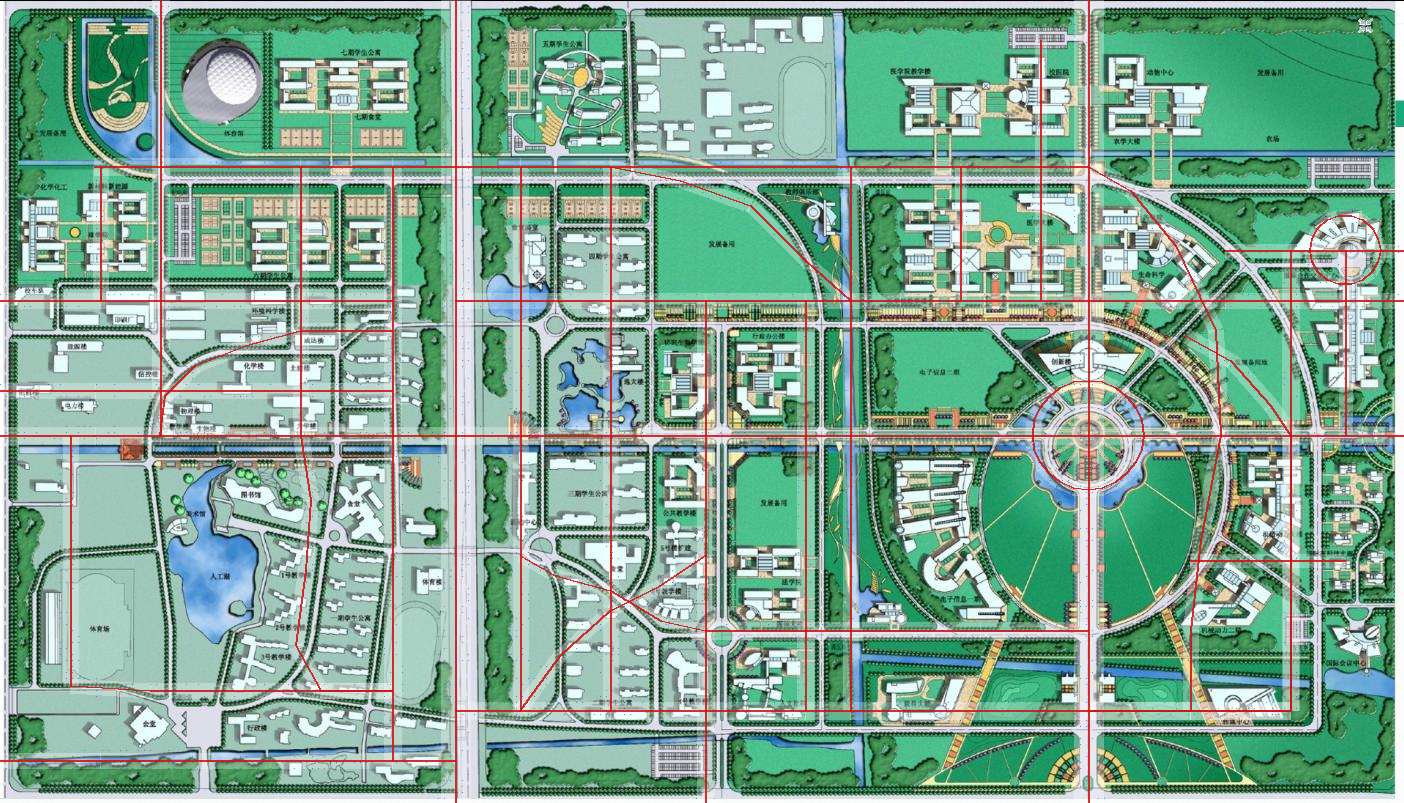
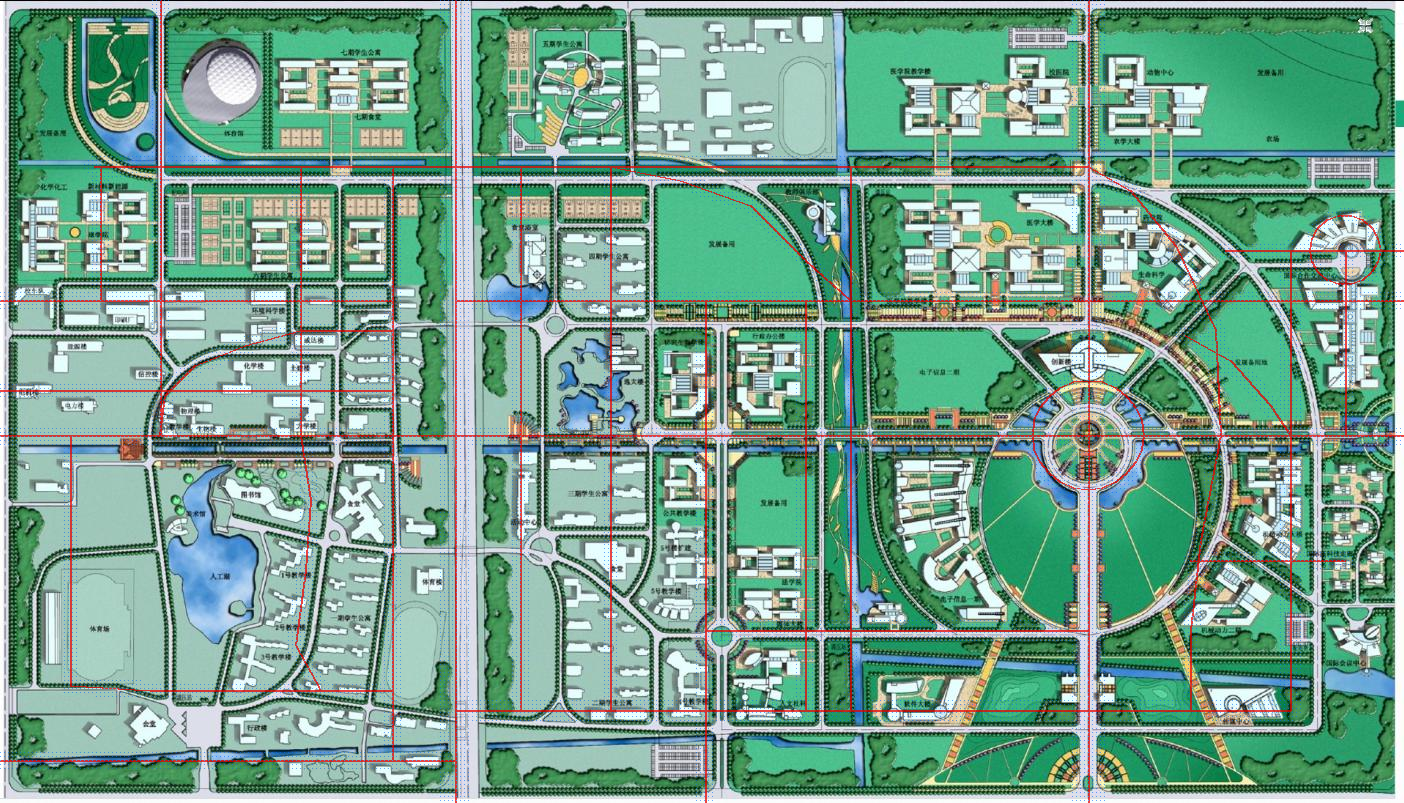
Refine road annotations with 4px grid

Changed region(s): [[0.0, 0.0, 1.0, 0.9963]]

diff --git a/validate_navigation_core.m b/validate_navigation_core.m
@@ -14,8 +14,8 @@ must(channels == 3, 'map must be an RGB image');
 network = validationBuildRoadNetwork(mapWidthPx, mapHeightPx, scaleM);
 must(size(network.segments, 1) > 60, 'road network should contain modeled road segments');
 must(size(network.nodes, 1) > 40, 'road network should contain network nodes');
-must(network.grid.stepPx == 6, 'road grid step should be 6 pixels for high precision');
-must(size(network.grid.nodes, 1) > 8000, 'road grid should contain dense navigable nodes');
+must(network.grid.stepPx == 4, 'road grid step should be 4 pixels for high precision');
+must(size(network.grid.nodes, 1) > 18000, 'road grid should contain dense navigable nodes');
 
 roadPoint = validationPxToMeters(1088, 435, mapHeightPx, scaleM);
 [validRoad, snappedRoad, roadSegIdx, roadDist] = validationNearestRoad(network, roadPoint);
@@ -54,7 +54,7 @@ end
 
 function network = validationBuildRoadNetwork(mapWidthPx, mapHeightPx, scaleM)
 segPx = RoadModelDataPx();
-gridStepPx = 6;
+gridStepPx = 4;
 
 segments = zeros(size(segPx));
 for i = 1:size(segPx, 1)
@@ -352,61 +352,6 @@ while ~isempty(openNodes)
         fScore(v) = tentative + validationDistance(network.grid.nodes(v, :), network.grid.nodes(endNode, :));
         openNodes(end + 1) = v;
         openScores(end + 1) = fScore(v);
-    end
-end
-end
-
-function adj = validationConnectProjection(adj, network, nodeIdx, pt, segmentIdx)
-s = network.segments(segmentIdx, :);
-n1 = validationFindNodeIndex(network.nodes, s(1:2));
-n2 = validationFindNodeIndex(network.nodes, s(3:4));
-d1 = validationDistance(pt, s(1:2));
-d2 = validationDistance(pt, s(3:4));
-adj(nodeIdx, n1) = min(adj(nodeIdx, n1), d1);
-adj(n1, nodeIdx) = min(adj(n1, nodeIdx), d1);
-adj(nodeIdx, n2) = min(adj(nodeIdx, n2), d2);
-adj(n2, nodeIdx) = min(adj(n2, nodeIdx), d2);
-end
-
-function idx = validationFindNodeIndex(nodes, pt)
-idx = 1;
-best = inf;
-for i = 1:size(nodes, 1)
-    d = validationDistance(nodes(i, :), pt);
-    if d < best
-        best = d;
-        idx = i;
-    end
-end
-end
-
-function [dist, prev] = validationDijkstra(adj, startNode)
-n = size(adj, 1);
-dist = inf(1, n);
-prev = zeros(1, n);
-visited = false(1, n);
-dist(startNode) = 0;
-for step = 1:n
-    best = inf;
-    u = 0;
-    for i = 1:n
-        if ~visited(i) && dist(i) < best
-            best = dist(i);
-            u = i;
-        end
-    end
-    if u == 0
-        break;
-    end
-    visited(u) = true;
-    for v = 1:n
-        if ~visited(v) && ~isinf(adj(u, v))
-            alt = dist(u) + adj(u, v);
-            if alt < dist(v)
-                dist(v) = alt;
-                prev(v) = u;
-            end
-        end
     end
 end
 end

diff --git a/RoadModelDataPx.m b/RoadModelDataPx.m
@@ -24,9 +24,7 @@ segPx = appendRoadPolyline(segPx, [805 805 805 805], [300 435 630 710], 16); % m
 segPx = appendRoadPolyline(segPx, [850 850 850 850 850], [166 300 435 630 710], 14); % river_west_road_850
 segPx = appendRoadPolyline(segPx, [455 520 610 705 805 850 900 980 1088], [300 300 300 300 300 300 300 300 300], 14); % middle_north_cross
 segPx = appendRoadPolyline(segPx, [705 805 850 980 1088], [630 630 630 630 630], 16); % middle_south_cross
-segPx = appendRoadPolyline(segPx, [520 555 610 660 705], [555 575 590 620 630], 12); % middle_lake_connector
 segPx = appendRoadPolyline(segPx, [610 680 750 805 850], [166 180 205 260 300], 12); % middle_north_curve
-segPx = appendRoadPolyline(segPx, [520 560 610 660 705], [710 655 610 585 555], 12); % middle_southwest_curve
 segPx = appendRoadPolyline(segPx, [1143 1141.1 1135.6 1126.9 1115.5 1102.2 1088 1073.8 1060.5 1049.1 1040.4 1034.9 1033 1034.9 1040.4 1049.1 1060.5 1073.8 1088 1102.2 1115.5 1126.9 1135.6 1141.1 1143], [435 449.2 462.5 473.9 482.6 488.1 490 488.1 482.6 473.9 462.5 449.2 435 420.8 407.5 396.1 387.4 381.9 380 381.9 387.4 396.1 407.5 420.8 435], 14); % central_roundabout
 segPx = appendRoadPolyline(segPx, [1088 1130 1175 1215 1220 1200 1190 1190], [166 190 245 330 435 540 630 710], 14); % east_outer_curve
 segPx = appendRoadPolyline(segPx, [1290 1290 1290 1290 1290], [250 300 435 560 710], 16); % east_inner_vertical
@@ -37,8 +35,6 @@ segPx = appendRoadPolyline(segPx, [1190 1240 1290 1345], [560 560 560 560], 12);
 segPx = appendRoadPolyline(segPx, [1088 1190 1290], [710 710 710], 16); % east_horizontal_710
 segPx = appendRoadPolyline(segPx, [1345 1345 1345 1345], [250 300 360 435], 12); % east_small_vertical
 segPx = appendRoadPolyline(segPx, [1380 1377.9 1371.8 1362.5 1351.1 1338.9 1327.5 1318.2 1312.1 1310 1312.1 1318.2 1327.5 1338.9 1351.1 1362.5 1371.8 1377.9 1380], [250 262 272.5 280.3 284.5 284.5 280.3 272.5 262 250 238 227.5 219.7 215.5 215.5 219.7 227.5 238 250], 10); % east_small_roundabout
-segPx = appendRoadPolyline(segPx, [960 960 960], [166 220 300], 10); % top_central_vertical_960
-segPx = appendRoadPolyline(segPx, [1040 1040 1040 1040 1040], [40 100 166 240 300], 10); % top_central_vertical_1040
 end
 
 function segPx = appendRoadPolyline(segPx, xs, ys, widthPx)

diff --git a/RunIntelligentNavigationUI.m b/RunIntelligentNavigationUI.m
@@ -979,7 +979,7 @@ end
 
 function network = buildRoadNetwork(mapWidthPx, mapHeightPx, scaleM)
 segPx = RoadModelDataPx();
-gridStepPx = 6;
+gridStepPx = 4;
 
 segments = zeros(size(segPx));
 for i = 1:size(segPx, 1)

diff --git a/docs/DEVELOPMENT_LOG.md b/docs/DEVELOPMENT_LOG.md
@@ -19,7 +19,7 @@
 - Built `RunIntelligentNavigationUI.m` as the programmatic MATLAB UI.
 - Modeled campus roads as manually traced road corridors with explicit segment widths.
 - Implemented IV loading, road validity checking, orientation, removal, reports, distance, trajectory length, map rotation, road skeleton, local circular view, automatic road alignment, IV-up view, virtual street view, and path planning.
-- Replaced sparse centerline path planning with a dense 6 px navigable road grid and custom A* search instead of MATLAB `graph` or `shortestpath`.
+- Replaced sparse centerline path planning with a dense 4 px navigable road grid and custom A* search instead of MATLAB `graph` or `shortestpath`.
 - Avoided App Designer, `uifigure`, advanced image-processing built-ins, and advanced graph built-ins.
 
 ### Group Information
@@ -84,15 +84,22 @@ Current UI smoke behavior:
 - Reviewed `practice/Practice03`, `practice/Practice04`, and `practice/Practice05` as references. Practice05 supports the current programmatic `figure`/`axes`/`uicontrol` implementation style; Practice03/04 support the coordinate geometry and simplified camera/street-view reasoning.
 - Removed the previous sparse grid-like road model because it visibly crossed buildings, green areas, and water.
 - Added `RoadModelDataPx.m` as a single shared road-corridor data source in map pixel coordinates.
-- Switched path planning from sparse centerline Dijkstra to a 6 px road-grid A* search.
+- Switched path planning from the sparse centerline path model to a 4 px road-grid A* search.
 - Updated `Road Model` visualization to show both traced road centerlines and sampled navigable grid nodes.
 - Regenerated `docs/report/assets/RoadModelOverlay.png` with the corrected road corridor/grid overlay.
 - Re-ran Octave validation: `validate_navigation_core` and `validate_ui_smoke` both returned `exit=0`.
 
+### 2026-06-14 Road Annotation Review
+
+- Rechecked the road overlay against the campus map and removed four suspect internal/courtyard shortcut polylines from `RoadModelDataPx.m`.
+- Reduced the navigable road-grid step to 4 px for higher route fidelity where curves and intersections are close together.
+- Regenerated `RoadModelOverlay.png`, `grid_path_example.png`, the technical report DOCX/PDF, and the MATLAB scripts zip.
+- Re-ran validation after the revision: 201 road segments, 18472 grid nodes, `CORE_VALIDATION_OK`, and `UI_SMOKE_OK`.
+
 ### Optimization and Risk Notes
 
 - Road detection is manually modeled as road corridors rather than automatically extracted from image color. This keeps the implementation within the course's minimum-built-in-functions rule.
-- The 6 px road grid improves path fidelity, but the model still depends on the quality of manual road tracing. If a specific road segment is judged off, update `RoadModelDataPx.m`.
+- The 4 px road grid improves path fidelity, but the model still depends on the quality of manual road tracing. If a specific road segment is judged off, update `RoadModelDataPx.m`.
 - Virtual street view is a simplified generated scene rather than photorealistic rendering, because the project map has no real street-view imagery.
 - UI runtime should be finally checked in MATLAB when available, because Octave graphics behavior is not identical to MATLAB.
 

diff --git a/docs/PROJECT_AUDIT_CN.md b/docs/PROJECT_AUDIT_CN.md
@@ -28,15 +28,15 @@
 | OR2 Scale and local visualization | 已补齐 | `IV scale` 控制 IV 显示比例；`Local r(m)` 严格按半径显示局部圆形地图 |
 | OR3 Auto aligned orientation | 已补齐 | `Auto align road` 根据最近道路段方向设置 IV；`IV Up` 旋转地图使 IV 朝上 |
 | OR4 Virtual street view | 已补齐 | `Street View` 对道路点生成简化街景窗口，显示道路点坐标和朝向 |
-| OR5 Path planning | 已补齐 | 两个任意地图点先吸附到最近道路点，再用 6 px 可通行道路网格和自写 A* 规划最短路 |
+| OR5 Path planning | 已补齐 | 两个任意地图点先吸附到最近道路点，再用 4 px 可通行道路网格和自写 A* 规划最短路 |
 
 ## 已完成的薄弱项修正
 
 1. OR1 原先只显示骨架线和道路带叠加，现在改为 `Skeleton Road` 模式下对地图做骨架道路带遮罩，骨架带外区域空白化，更接近“只显示附着于骨架的道路部分”。
 2. OR2 局部视图加入等比例显示和半径边界锁定，避免坐标轴自动缩放破坏指定半径。
 3. OR5 路径规划按要求接受任意地图点，不再要求起终点本身位于道路上。
-4. 道路规划已从旧版稀疏中心线/Dijkstra 改为 `RoadModelDataPx.m` 手工道路走廊 + 6 px 高精度可通行网格 + 自写 A*，减少弯路和交叉口附近的路径偏离。
-5. 增加 `validate_navigation_core.m`，覆盖地图尺寸、坐标换算、道路合法性、6 px 网格、吸附、路径规划和局部遮罩。
+4. 道路规划已从旧版稀疏中心线方案改为 `RoadModelDataPx.m` 手工道路走廊 + 4 px 高精度可通行网格 + 自写 A*，减少弯路和交叉口附近的路径偏离。
+5. 增加 `validate_navigation_core.m`，覆盖地图尺寸、坐标换算、道路合法性、4 px 网格、吸附、路径规划和局部遮罩。
 6. 增加 `validate_ui_smoke.m`，用于快速检查 UI 创建阶段是否抛出异常。
 
 ## 已知限制

diff --git a/README.md b/README.md
@@ -19,7 +19,7 @@ Official course reference: [Stony Brook University ISE333 / CSE333 User Interfac
 - `RunIntelligentNavigationUI.m`: programmatic UI implementation and callbacks.
 - `RoadModelDataPx.m`: manually traced road-corridor data in map pixel coordinates.
 - `MapForUI.jpg`: required course map asset.
-- `validate_navigation_core.m`: non-GUI validation of map scale, road legality, 6 px road grid, snapping, shortest path, and local circular masking.
+- `validate_navigation_core.m`: non-GUI validation of map scale, road legality, 4 px road grid, snapping, shortest path, and local circular masking.
 - `validate_ui_smoke.m`: fast UI launch smoke test.
 - `README_CN.md`: Chinese project guide for group members.
 - `docs/`: technical report, design assets, Chinese audit notes, and development log.
@@ -49,7 +49,7 @@ After launch, all project operations are available through the UI:
 - Generate a simplified virtual street view.
 - Plan and visualize a shortest road path between two arbitrary map points.
 
-Path planning uses a manually traced road corridor model plus a dense 6 px navigable grid. The grid is searched with a custom A* implementation, avoiding MATLAB `graph` and `shortestpath`.
+Path planning uses a manually traced road corridor model plus a dense 4 px navigable grid. The grid is searched with a custom A* implementation, avoiding MATLAB `graph` and `shortestpath`.
 
 ## Octave Validation
 

diff --git a/docs/road_rework/ROAD_REWORK_NOTE_CN.md b/docs/road_rework/ROAD_REWORK_NOTE_CN.md
@@ -13,8 +13,8 @@
 当前版本采用：
 
 - `RoadModelDataPx.m`：按 `MapForUI.jpg` 像素坐标人工标注道路走廊。
-- 6 px 可通行道路网格：根据道路走廊宽度生成密集可通行点。
-- 自写 A*：在 6 px 网格上搜索最短路径，避免使用 MATLAB `graph` 或 `shortestpath`。
+- 4 px 可通行道路网格：根据道路走廊宽度生成密集可通行点。
+- 自写 A*：在 4 px 网格上搜索最短路径，避免使用 MATLAB `graph` 或 `shortestpath`。
 
 这样保留了课程要求的可观察实现过程，同时比稀疏中心线更贴近地图道路。
 

diff --git a/README_CN.md b/README_CN.md
@@ -62,7 +62,7 @@ main
 - 生成简化虚拟街景
 - 在两个任意地图点之间规划最短道路路径
 
-路径规划已经改为“道路走廊 + 6 px 高精度可通行网格 + 自写 A*”。旧版稀疏中心线 Dijkstra 已废弃，因为它会在弯路和交叉口附近产生明显偏离。
+路径规划已经改为“道路走廊 + 4 px 高精度可通行网格 + 自写 A*”。旧版稀疏中心线路径方案已移除，因为它会在弯路和交叉口附近产生明显偏离。
 
 ## Octave 验收
 

diff --git a/validation/logs/octave_validation_summary.md b/validation/logs/octave_validation_summary.md
@@ -24,7 +24,7 @@ Coverage:
 - Map image dimensions and RGB channel check.
 - Pixel-to-meter coordinate conversion.
 - Manual road-corridor segment construction from `RoadModelDataPx.m`.
-- Dense 6 px navigable road-grid construction; current grid has more than 9000 navigable nodes.
+- Dense 4 px navigable road-grid construction; current grid has 18472 navigable nodes.
 - Road-valid point acceptance.
 - Off-road point rejection for IV loading.
 - Arbitrary-point snapping for path planning.